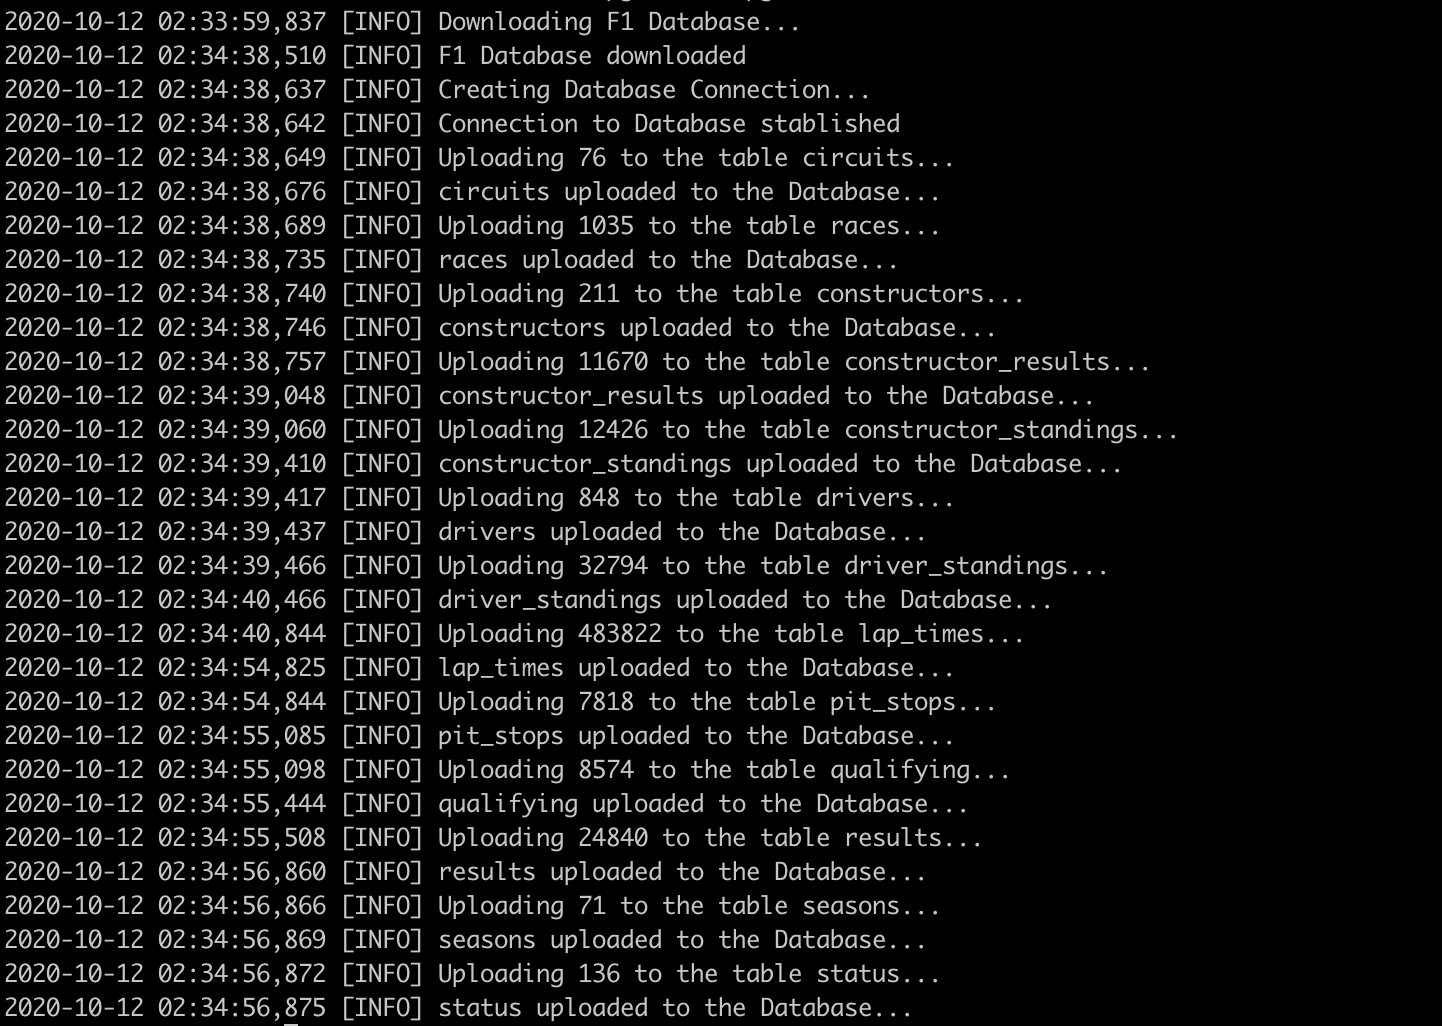
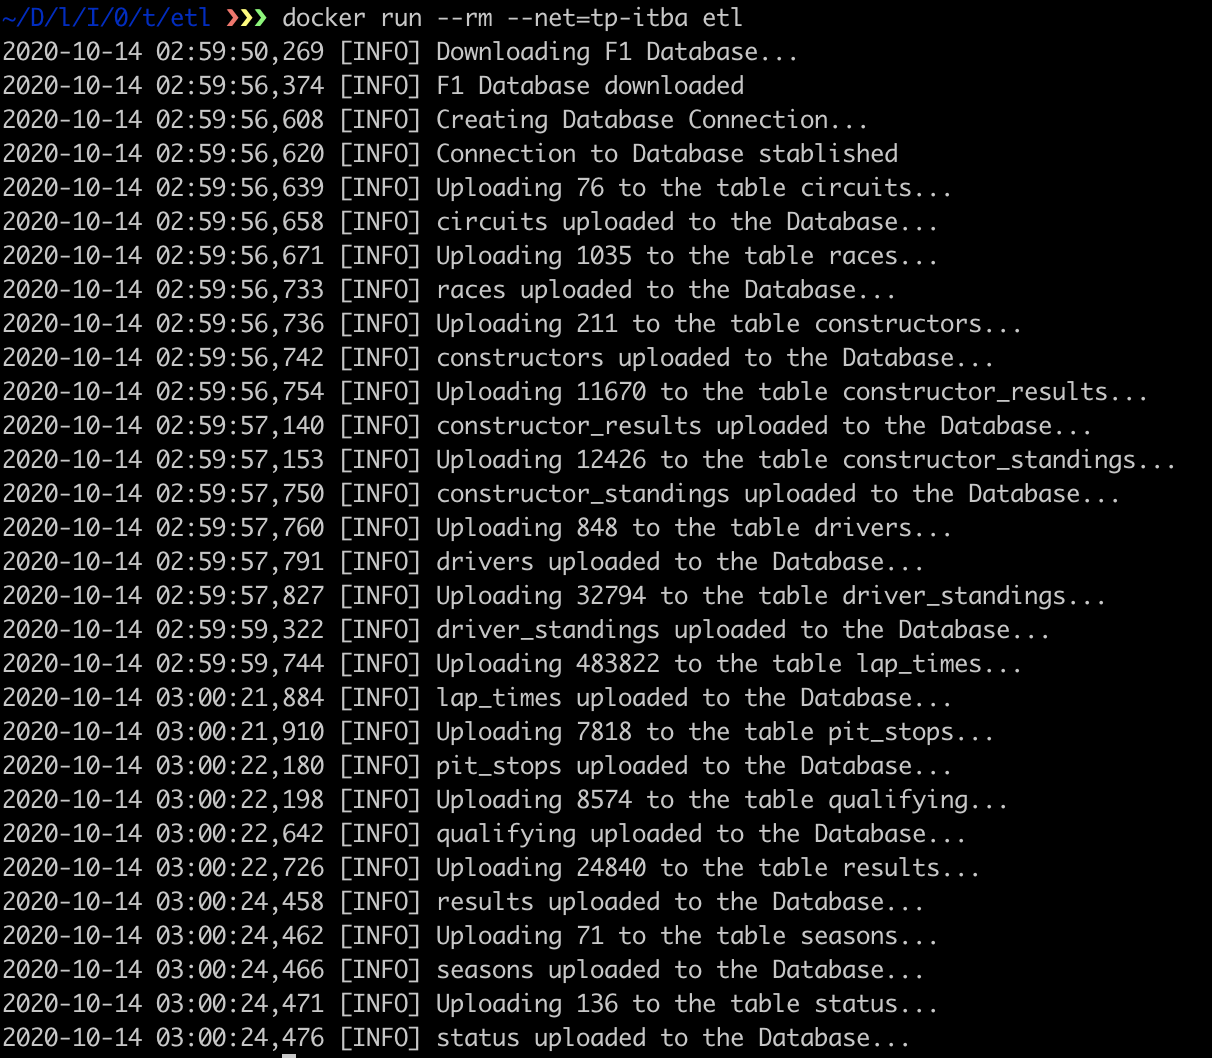
change --link to --net on docker containers and update README

Changed region(s): [[0.0, 0.0, 0.9464, 1.0]]

diff --git a/README.md b/README.md
@@ -1,14 +1,15 @@
-# **TP Final Foundations**
+# **TP Final Foundations & Cloud Architect**
 
 La base de datos elegida para esta trabajo, es una correspondiente a información sobre las carreras de Fórmula 1 (F1).
-Los datos los consigo de este [sitio](http://ergast.com/mrd/db/), y contiene datos de todas las carreras de la F1 desde el 5 de Mayo de 1950, hasta la última que ocurrió el 11 de octubre de 2020. Estos datos se actualizan unos minutos terminada cada carrera y tiene información de toodo tipo:
+Los datos los consigo de este [sitio](http://ergast.com/mrd/db/), y contiene datos de todas las carreras de la F1 desde el 5 de Mayo de 1950, hasta la última que ocurrió el 11 de octubre de 2020. Estos datos se actualizan unos minutos terminada cada carrera y tiene información de todo tipo, entre los que se destacan:
 
-- resultados de las carreras, con las posiciones de todos los pilotos que la corrieron
-- datos de las clasificaciones (las carreras del dia previo que definen las posiciones de largada)
-- datos de los equipos
-- datos de los pilotos
-- datos de las paradas en los boxes
-- datos de los circuitos
+- resultados de las carreras, con las posiciones de todos los pilotos que la corrieron.
+- datos de las clasificaciones (las carreras del dia previo que definen las posiciones de largada).
+- datos de los equipos.
+- datos de los pilotos.
+- datos de las paradas en los boxes.
+- datos de los circuitos.
+- datos de cada vuelta, de cada circuito para cada piloto que la corrió.
 
 
 Elegí esta base de datos, por mi interés en la F1, y porque seguramente encuentre cosas super interesantes cuando me ponga a consultar esta iniformación. 
@@ -18,51 +19,102 @@ Este trabajo consta de 3 partes, que mediante Docker, Python y SQL, se debe:
  - popular esa base de datos con los datos de la F1.
  - realizar consultas sobre esa base de datos.
 
+## **Estructura del Proyecto**
+El proyecto esta separado en distintos directorios, uno para cada parte del proceso:
+- `/db` tiene los scripts y Dockerfile necesarios para la creación de la base de datos.
+- `/etl` tiene los scripts, archivos y Dockerfile necesarios para ejecutar el proceso de ETL.
+ - `/reports` tiene los scripts, queries, archivos y Dockerfile necesarios para construir los reportes consultado en la base de datos e imprimierlos en la términal.
+ - `/assets` tiene las imagenes que estan incluidas en este README.
+
+Osea, generando un árbol del direcorio, obtenemos lo siguiente:
+
+```
+📦tp-itba-foundations
+   - Archivos .PNG utiles para el README.md
+ ┣ 📂assets 
+ ┃ ┗ ...
+   - Archivos referentes a la base de datos
+ ┣ 📂db
+ ┃ ┣ 📜Dockerfile
+ ┃ ┣ 📜create_database.sh
+ ┃ ┗ 📜init.sql
+   - Archivos referentes a la ejecución del ETL
+ ┣ 📂etl
+ ┃ ┣ 📜Dockerfile
+ ┃ ┣ 📜config.json
+ ┃ ┣ 📜etl.py
+ ┃ ┗ 📜requirements.txt
+   - Archivos referentes a la generación de reportes
+ ┣ 📂reports
+ ┃ ┣ 📂queries
+ ┃ ┃ ┣ 📜query_1.sql
+ ┃ ┃ ┣ 📜query_2.sql
+ ┃ ┃ ┣ 📜query_3.sql
+ ┃ ┃ ┣ 📜query_4.sql
+ ┃ ┃ ┣ 📜query_5.sql
+ ┃ ┃ ┣ 📜query_6.sql
+ ┃ ┃ ┗ 📜query_7.sql
+ ┃ ┣ 📜Dockerfile
+ ┃ ┣ 📜config.json
+ ┃ ┣ 📜reports.py
+ ┃ ┗ 📜requirements.txt
+ ┣ 📜README.md
+ ┗ 📜Trabajo Practico - CDE - Foundations.pdf
+```
+
+
+## **Docker Network**
+Primero vamos a crear la red en la que van a correr todos los containers. De esta manera podemos comunicar los containers entre si. Ejecutamos el siguiente comando que crea la red _tp-itba_:
+
+```
+$ docker network create tp-itba
+```
+
 
 ## **Base de Datos**
 
 Como comenté, elegí usar PostgreSQL como base de datos para guardar toda la información de la F1.
-La vamos a levantar mediante un container de Docker. Para ello, tenemos que ejeuctar los siguientes comandos, suponiendo que estamos parados sobre la ruta principal de este directorio:
+La vamos a levantar mediante un container de Docker. Para ello, tenemos que ejecutar lo siguiente
+
+```
+$ docker run --rm --name pg-docker -e POSTGRES_PASSWORD=docker -d -p 5432:5432 --net=tp-itba postgres:13.0
+````
+
+donde:
+- `--rm` es una buena práctica automáticamente remover el container.
+- `--name` es el nombre con el que nos vamos a referir al container una vez que esta corriendo.
+- `-e` le pasamos una variable de entorno, en este caso es la contraseña para la base de datos.
+- `-d` para que corra en segundo plano.
+- `-p` enlaza nuestro puerto 5432 con el puerto 5432 del container.
+- `--net` conecta el container a la red `tp-itba` que creamos al principio de todo.
+- `postgres:13.0` es la imagen y version que queremos correr. Si no la encuentra en registry local, la descarrga de Docker Hub.
+
+Una vez que ya este corriendo, buildeamos otro container y le copiamos el script de bash que define y crea las tablas en la base de dagtos que acabamos de levantar. Suponiendo que estamos en la tuta principalm del proyecto ejecutamos los siguientes comandos:
 
 ```
 $ cd db
-$ docker build -t postgres_local .
-````
-
+$ docker build -t create_db .
+```
 donde:
-- `-t` es el nombre que le ponemos a la imagen , para luego identificarla cuando la querramos correr
+- `-t` es el tag con el que creamos la imagen, como nos vamos a referir a ella cuando querramos correrla.
+
+Una vez buildeada, ya podemos ejecutarla.
 
 ```
-$ docker run --rm --name pg-docker -e POSTGRES_PASSWORD=docker -d -p 5432:5432 postgres_local
+$ docker run --rm -e DB_HOST=pg-docker \
+-e DB_USER=postgres \
+-e DB_DATABASE=postgres \
+-e PGPASSWORD=docker \
+--net=tp-itba create_db
 ```
 
-donde:
-- `--rm` es una buena práctica automáticamente remover el container
-- `--name` es el nombre con el que nos vamos a referir al container una vez que esta corriendo
-- `-e` le pasamos la variable de entorno, en este caso es la contraseña para la base de datos
-- `-d` para que corra en segundo plano
-- `-p` enlaza nuestro puerto 5432 con el puerto 5432 del container
+Aca de vuelta le pasamos algunas variables de entorno necesarias para crear la conexión a la base de datos, como también el nombre de la red a la que queremos que el container se conecte.
 
-Una vez que ya este corriendo, ingresamos a la terminal del container para ejecutar un script de bash y crear la estructura de las tablas. Para eso, ejecutamos lo siguiente:
-```
-$ docker exec -it pg-docker bash
-```
-Una vez dentro del container, ejecutamos el script de bash:
-```
-$ ./create_database.sh
-````
-
-Vamos a ver que nos va a listar los comandos que esta realizando, si todo sale bien, deberiamos ver lo siguiente loggeado en la consola:
+Vamos a ver que nos empieza a listar los comandos que esta realizando, si todo sale bien, deberiamos ver lo siguiente loggeado en la consola:
 
 ![create database logs](./assets/db/logs_create_database.png)
 
-Ya podemos salir de la terminal del container:
-```
-$ exit
-````
-
-Ok, ya tenemos levantada la base de datos, con las tablas y relaciones creadas.
-A su vez, podemos graficar el diagrama ER de la base para entender cuales son estas relaciones:
+Ok, ya tenemos levantada la base de datos, con las tablas y relaciones creadas. A su vez, podemos graficar el diagrama ER de la base para entender cuales son estas relaciones:
 
 ![diagrama ER](./assets/db/ER_Diagram.png)
 
@@ -76,13 +128,10 @@ Para esto, volvemos al directorio principal del proyecto e ingresamos al directo
 $ cd ../
 $ cd etl
 $ docker build -t etl .
-$ docker run --rm --link pg-docker:pg-docker etl
+$ docker run --rm --net=tp-itba etl
 ```
 
-donde:
-- `--link` sirve para conectarnos a `pg-docker` (que es el container que levantamos en el paso anterior que tiene la base de datos), desde este container que estamos levantando.
-
-Habiendo ejecutado ese comando, vamos a ver los logs impresos en la terminal de que estan insertando los valores en cada tabla correspondiente
+Habiendo ejecutado ese comando, vamos a ver los logs impresos en la terminal de que se descargó la base de la F1, y se estan insertando en cada tabla correspondiente:
 
 ![logs ETL](./assets/etl/logs_etl.png)
 
@@ -96,9 +145,9 @@ Para ejecutar estos reportes, buildeamos y corremos la imagen de Docker que se e
 $ cd ../
 $ cd reports
 $ docker build -t reports .
-$ docker run --rm --link pg-docker:pg-docker reports
+$ docker run --rm --net=tp-itba reports
 ```
-Acá vamos a ver como se van imprimiendo los resultados de las queries en la terminal. Es importante notar que segun la fecha en la que se ejecuten las queries, los resultados pueden variar levemente a los que yo voy a presentar, dado que esta información se va actualizando con las nuevas carreras.
+Acá vamos a ver como se van imprimiendo los resultados de las queries en la terminal. Es importante notar que segun la fecha en la que se ejecute el proceso anterior, los resultados pueden variar levemente a los que yo voy a presentar, dado que esta información se va actualizando con las nuevas carreras.
 
 Inspeccionemos los resultados de cada query:
 
